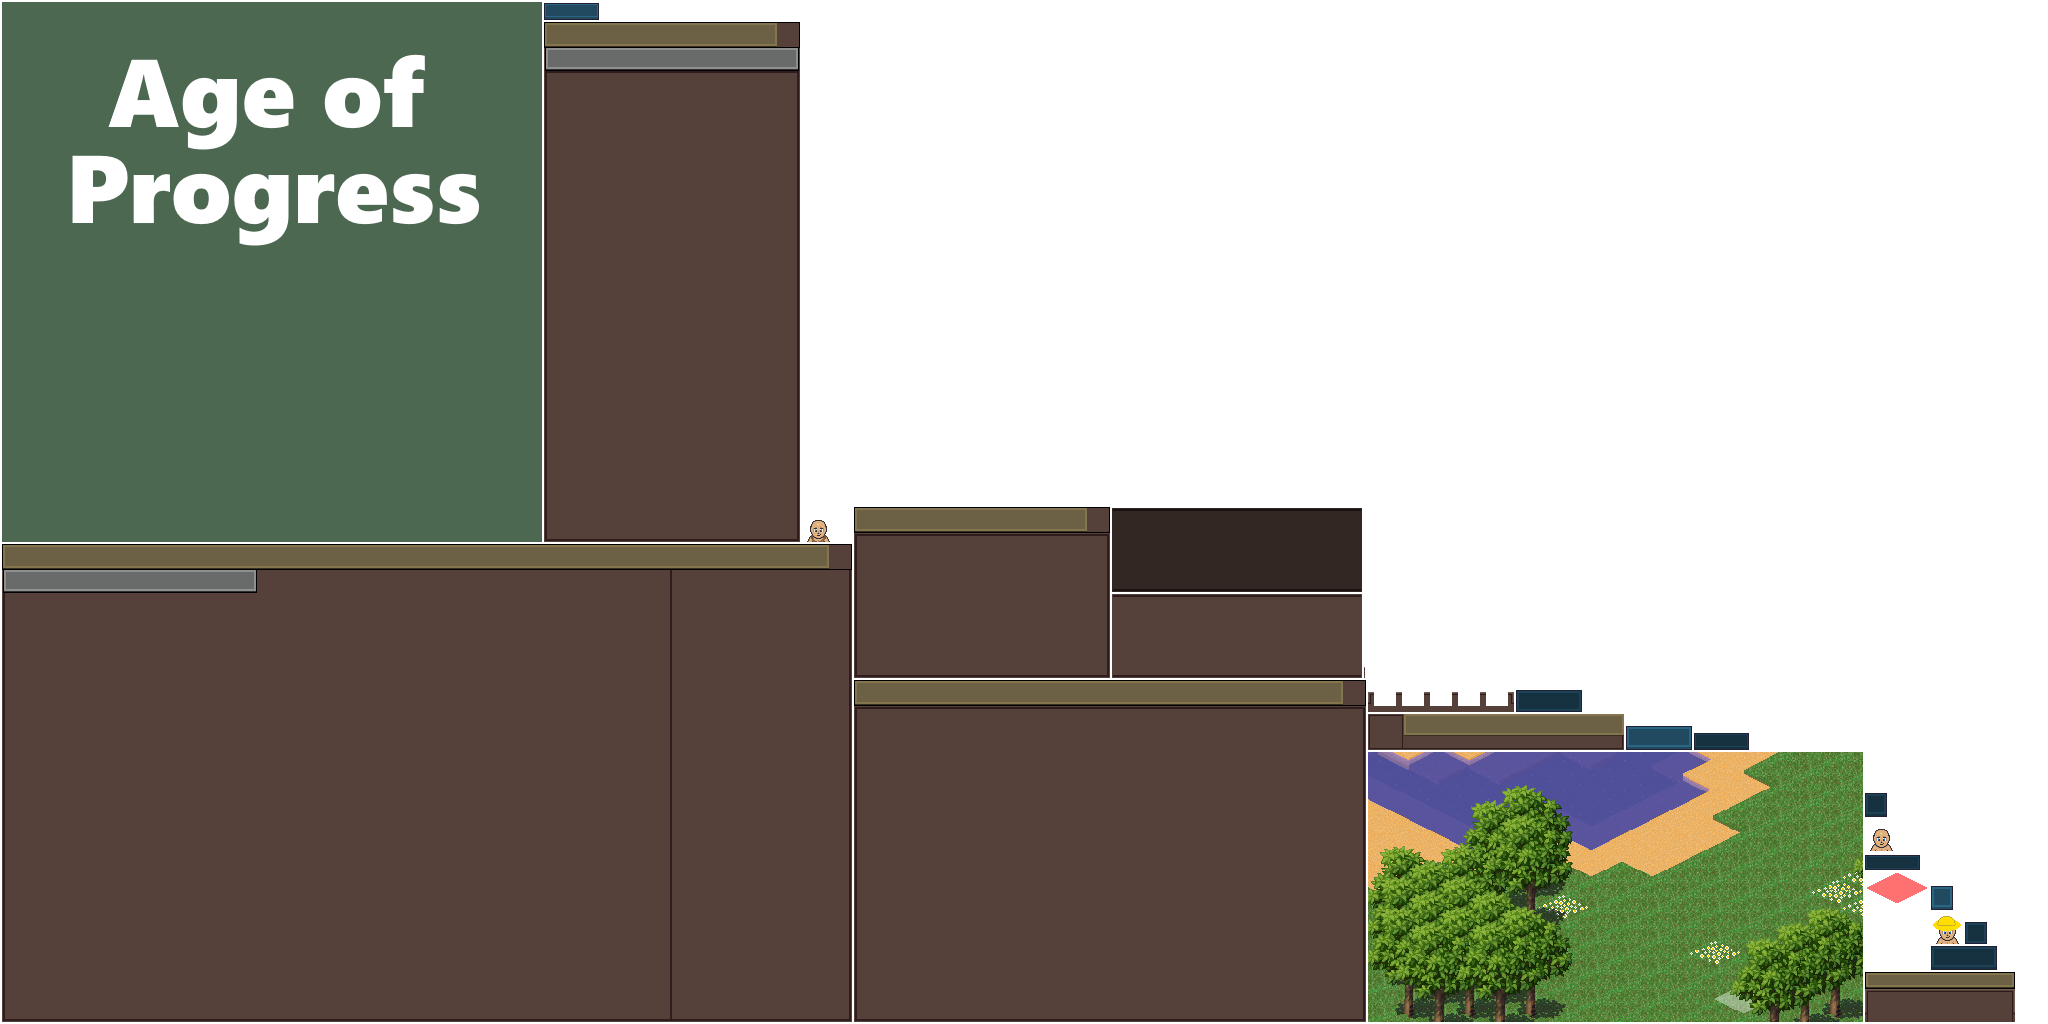
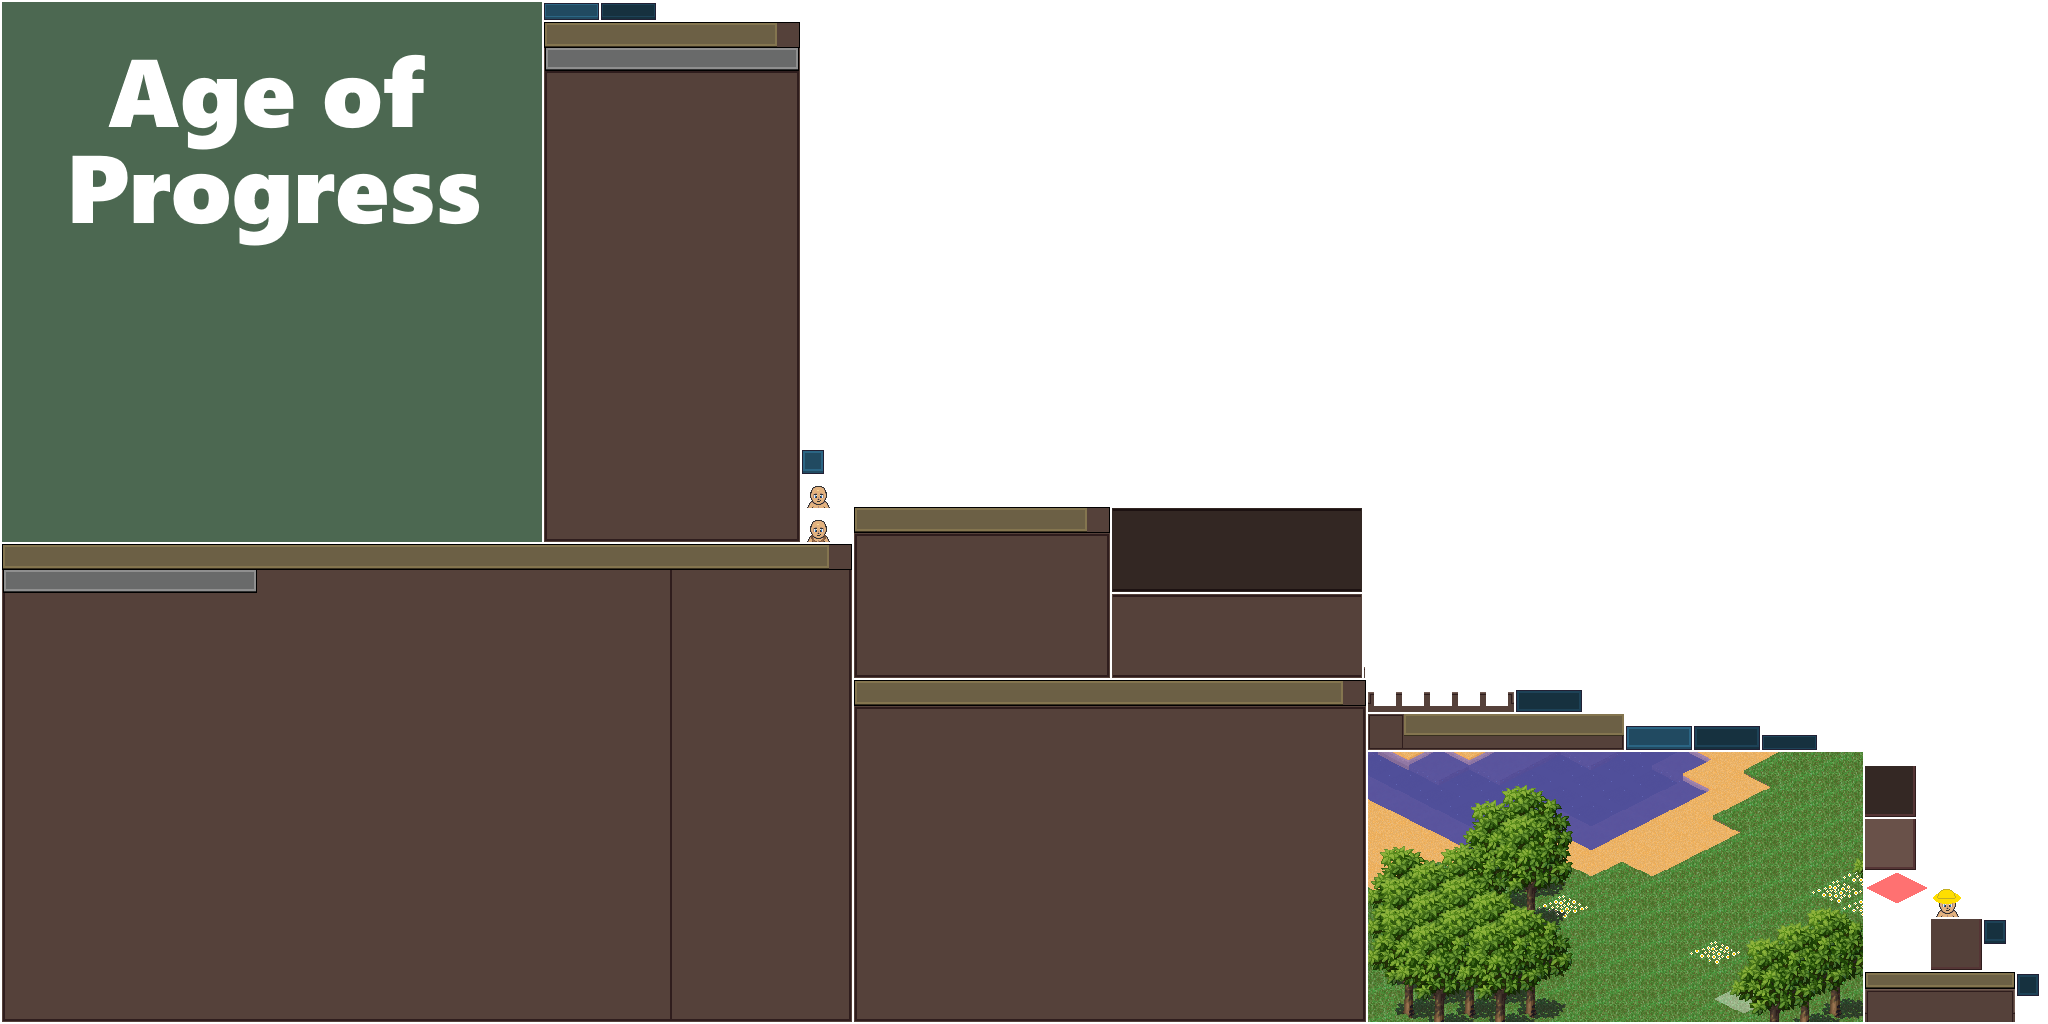
UI update v2
changed tile selector to something less phone UI like

diff --git a/Age Of Progress/core/src/dev/codewizz/gfx/gui/menus/PathingMenu.java b/Age Of Progress/core/src/dev/codewizz/gfx/gui/menus/PathingMenu.java
@@ -1,9 +1,11 @@
 package dev.codewizz.gfx.gui.menus;
 
 import com.badlogic.gdx.Gdx;
+import com.badlogic.gdx.graphics.g2d.Sprite;
+import com.badlogic.gdx.graphics.g2d.SpriteBatch;
 import com.badlogic.gdx.math.Rectangle;
 
-import dev.codewizz.gfx.gui.UIBuyslotTile;
+import dev.codewizz.gfx.gui.UIElement;
 import dev.codewizz.gfx.gui.UIIcon;
 import dev.codewizz.gfx.gui.UIImage;
 import dev.codewizz.gfx.gui.UILayer;
@@ -12,6 +14,8 @@ import dev.codewizz.gfx.gui.UIScrollList;
 import dev.codewizz.gfx.gui.UITabButton;
 import dev.codewizz.gfx.gui.UIText;
 import dev.codewizz.input.MouseInput;
+import dev.codewizz.utils.Assets;
+import dev.codewizz.world.Tile;
 import dev.codewizz.world.tiles.ClayTile;
 import dev.codewizz.world.tiles.DeepWaterTile;
 import dev.codewizz.world.tiles.DirtPathTile;
@@ -35,6 +39,8 @@ public class PathingMenu extends UIMenu {
 
 	private UIScrollList stonesList;
 	private UIScrollList terrainList;
+	
+	private int rowSize = 5;
 
 	public PathingMenu(String id, int x, int y, int w, int h, UILayer layer) {
 		super(id, x, y, w, h, layer);
@@ -42,6 +48,17 @@ public class PathingMenu extends UIMenu {
 
 	@Override
 	public void setup() {
+		elements.add(0, new UIIcon("close-button", (6 + 160 - 13 - 1) * UILayer.SCALE - 1,
+				Gdx.graphics.getHeight() - (7 + 15) * UILayer.SCALE + 1, 14, 15, "close-icon") {
+			@Override
+			protected void onDeClick() {
+				closeAllTabs();
+				close();
+			}
+		});
+		
+		
+		
 		/*
 		 * 
 		 * this was the problem (h-200) might fuck up later when more buyslots are
@@ -60,16 +77,7 @@ public class PathingMenu extends UIMenu {
 
 		terrainList.slotPort = new Rectangle((8) * UILayer.SCALE + 4, Gdx.graphics.getHeight() - (329 * UILayer.SCALE),
 				160 * UILayer.SCALE, 291 * UILayer.SCALE);
-
-		elements.add(0, new UIIcon("close-button", (6 + 160 - 13 - 1) * UILayer.SCALE - 1,
-				Gdx.graphics.getHeight() - (7 + 15) * UILayer.SCALE + 1, 14, 15, "close-icon") {
-			@Override
-			protected void onDeClick() {
-				closeAllTabs();
-				close();
-			}
-		});
-
+		
 		elements.add(new UITabButton("tab-button-1", 12 * UILayer.SCALE,
 				Gdx.graphics.getHeight() - (34 * UILayer.SCALE), 43, 10, "Terrain") {
 			@Override
@@ -96,43 +104,27 @@ public class PathingMenu extends UIMenu {
 
 		elements.add(new UIText("text", (6 + 6) * UILayer.SCALE, Gdx.graphics.getHeight() - (6 + 5) * UILayer.SCALE + 1, "Pathing Menu", 8));
 
-		terrainList.slots.add(new UIBuyslotTile("slot-1", (8) * UILayer.SCALE + 4,
-				Gdx.graphics.getHeight() - (90 * UILayer.SCALE), 160 - 8, 52, new GrassTile()));
-		terrainList.slots.add(new UIBuyslotTile("slot-2", (8) * UILayer.SCALE + 4,
-				Gdx.graphics.getHeight() - (140 * UILayer.SCALE), 160 - 8, 52, new FlowerTile()));
-		terrainList.slots.add(new UIBuyslotTile("slot-3", (8) * UILayer.SCALE + 4,
-				Gdx.graphics.getHeight() - (190 * UILayer.SCALE), 160 - 8, 52, new DirtTile()));
-		terrainList.slots.add(new UIBuyslotTile("slot-4", (8) * UILayer.SCALE + 4,
-				Gdx.graphics.getHeight() - (240 * UILayer.SCALE), 160 - 8, 52, new SandTile()));
-		terrainList.slots.add(new UIBuyslotTile("slot-5", (8) * UILayer.SCALE + 4,
-				Gdx.graphics.getHeight() - (290 * UILayer.SCALE), 160 - 8, 52, new ClayTile()));
-		terrainList.slots.add(new UIBuyslotTile("slot-6", (8) * UILayer.SCALE + 4,
-				Gdx.graphics.getHeight() - (340 * UILayer.SCALE), 160 - 8, 52, new WaterTile()));
-		terrainList.slots.add(new UIBuyslotTile("slot-7", (8) * UILayer.SCALE + 4,
-				Gdx.graphics.getHeight() - (390 * UILayer.SCALE), 160 - 8, 52, new EmptyTile()));
-		terrainList.slots.add(new UIBuyslotTile("slot-8", (8) * UILayer.SCALE + 4,
-				Gdx.graphics.getHeight() - (440 * UILayer.SCALE), 160 - 8, 52, new FarmTile()));
-		terrainList.slots.add(new UIBuyslotTile("slot-9", (8) * UILayer.SCALE + 4,
-				Gdx.graphics.getHeight() - (490 * UILayer.SCALE), 160 - 8, 52, new DeepWaterTile()));
-
-		stonesList.slots.add(new UIBuyslotTile("slot-1", (8) * UILayer.SCALE + 4,
-				Gdx.graphics.getHeight() - (90 * UILayer.SCALE), 160 - 8, 52, new DirtPathTile()));
-		stonesList.slots.add(new UIBuyslotTile("slot-2", (8) * UILayer.SCALE + 4,
-				Gdx.graphics.getHeight() - (140 * UILayer.SCALE), 160 - 8, 52, new TiledTile()));
-		stonesList.slots.add(new UIBuyslotTile("slot-3", (8) * UILayer.SCALE + 4,
-				Gdx.graphics.getHeight() - (190 * UILayer.SCALE), 160 - 8, 52, new TiledTile2()));
-		stonesList.slots.add(new UIBuyslotTile("slot-4", (8) * UILayer.SCALE + 4,
-				Gdx.graphics.getHeight() - (240 * UILayer.SCALE), 160 - 8, 52, new TiledTile3()));
-		stonesList.slots.add(new UIBuyslotTile("slot-5", (8) * UILayer.SCALE + 4,
-				Gdx.graphics.getHeight() - (290 * UILayer.SCALE), 160 - 8, 52, new TiledTile4()));
-		stonesList.slots.add(new UIBuyslotTile("slot-6", (8) * UILayer.SCALE + 4,
-				Gdx.graphics.getHeight() - (340 * UILayer.SCALE), 160 - 8, 52, new TiledTile5()));
-		stonesList.slots.add(new UIBuyslotTile("slot-7", (8) * UILayer.SCALE + 4,
-				Gdx.graphics.getHeight() - (390 * UILayer.SCALE), 160 - 8, 52, new TiledTile6()));
-		stonesList.slots.add(new UIBuyslotTile("slot-8", (8) * UILayer.SCALE + 4,
-				Gdx.graphics.getHeight() - (440 * UILayer.SCALE), 160 - 8, 52, new TiledTile7()));
-		stonesList.slots.add(new UIBuyslotTile("slot-9", (8) * UILayer.SCALE + 4,
-				Gdx.graphics.getHeight() - (490 * UILayer.SCALE), 160 - 8, 52, new TiledTile8()));
+		terrainList.slots.add(new Slot(new GrassTile()));
+		terrainList.slots.add(new Slot(new FlowerTile()));
+		terrainList.slots.add(new Slot(new DirtTile()));
+		terrainList.slots.add(new Slot(new SandTile()));
+		terrainList.slots.add(new Slot(new ClayTile()));
+		terrainList.slots.add(new Slot(new WaterTile()));
+		terrainList.slots.add(new Slot(new EmptyTile()));
+		terrainList.slots.add(new Slot(new FarmTile()));
+		terrainList.slots.add(new Slot(new DeepWaterTile()));
+		terrainList.slots.add(new Slot(new FarmTile()));
+		
+		stonesList.slots.add(new Slot(new DirtPathTile()));
+		stonesList.slots.add(new Slot(new TiledTile()));
+		stonesList.slots.add(new Slot(new TiledTile2()));
+		stonesList.slots.add(new Slot(new TiledTile3()));
+		stonesList.slots.add(new Slot(new TiledTile4()));
+		stonesList.slots.add(new Slot(new TiledTile5()));
+		stonesList.slots.add(new Slot(new TiledTile6()));
+		stonesList.slots.add(new Slot(new TiledTile7()));
+		stonesList.slots.add(new Slot(new TiledTile8()));
+		
 
 		terrainList.maxScroll = (terrainList.slots.size()) * 52;
 
@@ -143,13 +135,12 @@ public class PathingMenu extends UIMenu {
 		elements.add(new UIImage("background", 6 * UILayer.SCALE, Gdx.graphics.getHeight() - (331 * UILayer.SCALE), 160,
 				325, "path-menu"));
 	}
-
+	
 	private void closeAllTabs() {
 		layer.elements.removeAll(terrainList.slots);
 		layer.elements.removeAll(stonesList.slots);
 		layer.elements.remove(terrainList);
 		layer.elements.remove(stonesList);
-		
 	}
 
 	@Override
@@ -157,9 +148,29 @@ public class PathingMenu extends UIMenu {
 		return new java.awt.Rectangle(6 * UILayer.SCALE, Gdx.graphics.getHeight() - (331 * UILayer.SCALE),
 				160 * UILayer.SCALE, 325 * UILayer.SCALE);
 	}
-
+	
 	@Override
 	public void onOpen() {
+		
+		for(int i = 0; i < terrainList.slots.size(); i++) {
+			UIElement e = terrainList.slots.get(i);
+
+			int indexX = i % rowSize;
+			int indexY = (int) (i / rowSize);
+			
+			e.setX(indexX * 94 + x + 8 * UILayer.SCALE);
+			e.setY(indexY * - 94 + y + 291 * UILayer.SCALE);
+		}
+		
+		for(int i = 0; i < stonesList.slots.size(); i++) {
+			UIElement e = stonesList.slots.get(i);
+
+			int indexX = i % rowSize;
+			int indexY = (int) (i / rowSize);
+			
+			e.setX(indexX * 94 + x + 8 * UILayer.SCALE);
+			e.setY(indexY * - 94 + y + 291 * UILayer.SCALE);
+		}
 	}
 
 	@Override
@@ -167,5 +178,48 @@ public class PathingMenu extends UIMenu {
 		MouseInput.object = true;
 		MouseInput.currentlyDrawingObject = null;
 		closeAllTabs();
+	}
+}
+class Slot extends UIElement {
+	
+	private static Sprite background = Assets.getSprite("slot-background");
+	private static Sprite backgroundPressed = Assets.getSprite("slot-background-pressed");
+	private static Sprite backgroundHovering = Assets.getSprite("slot-background-hovering");
+	
+	public Tile tile;
+	
+	private int width, height;
+	
+	public Slot(Tile tile) {
+		super("slot-" + tile.getId(), 0, 0, 94, 94);
+		
+		this.tile = tile;
+		
+		width = w - 6;
+		height = (int)(((float)(width) / 64f) * 48f);;
+	}
+	
+	@Override
+	protected void onDeClick() {
+		MouseInput.object = false;
+		MouseInput.currentlyDrawingTileId = tile.getId();
+	}
+
+	@Override
+	public void render(SpriteBatch b) {
+		if(pressed) {	
+			b.draw(backgroundPressed, x, y, w, h);	
+		} else if(hovering){
+			b.draw(backgroundHovering, x, y, w, h);	
+		} else {
+			b.draw(background, x, y, w, h);	
+		}
+		
+		b.draw(tile.getCurrentSprite(), x, y + 6, width, height);
+	}
+	
+	@Override
+	public java.awt.Rectangle getBounds() {
+		return new java.awt.Rectangle(x, UILayer.HEIGHT - y - h, w, h);
 	}
 }

diff --git a/Age Of Progress/core/src/dev/codewizz/gfx/gui/UILayer.java b/Age Of Progress/core/src/dev/codewizz/gfx/gui/UILayer.java
@@ -24,6 +24,8 @@ public abstract class UILayer implements InputProcessor {
 	private Texture fadeTex;
 	
 	private Rectangle scissors;
+	
+	private int mx, my;
 
 	public UILayer() {
 		WIDTH = Gdx.graphics.getWidth();
@@ -114,6 +116,8 @@ public abstract class UILayer implements InputProcessor {
 
 	@Override
 	public boolean mouseMoved(int screenX, int screenY) {
+		mx = screenX;
+		my = screenY;
 		return false;
 	}
 
@@ -155,11 +159,14 @@ public abstract class UILayer implements InputProcessor {
 		
 		for (int i = elements.size() - 1; i >= 0; i--) {
 			UIElement e = elements.get(i);
-		
+			e.hovering = false;
 			if(e.isBackground() && e.isEnabled()) {
 				e.render(b);
 			}
-		
+			
+			if(e.getBounds().contains(mx, my)) {
+				e.hovering = true;
+			}
 		}
 		
 		for (int i = elements.size() - 1; i >= 0; i--) {

diff --git a/Age Of Progress/core/src/dev/codewizz/gfx/gui/menus/SettlementMenu.java b/Age Of Progress/core/src/dev/codewizz/gfx/gui/menus/SettlementMenu.java
@@ -1,5 +1,7 @@
 package dev.codewizz.gfx.gui.menus;
 
+import java.awt.Rectangle;
+
 import com.badlogic.gdx.Gdx;
 
 import dev.codewizz.gfx.gui.UIElement;
@@ -24,7 +26,7 @@ public class SettlementMenu extends UIMenu {
 		super(id, x, y, w, h, layer);
 
 	}
-
+	
 	@Override
 	public void setup() {
 		
@@ -47,8 +49,8 @@ public class SettlementMenu extends UIMenu {
 	}
 
 	@Override
-	public java.awt.Rectangle getBounds() {
-		return new java.awt.Rectangle(6 * UILayer.SCALE, Gdx.graphics.getHeight() - (331 * UILayer.SCALE),
+	public Rectangle getBounds() {
+		return new Rectangle(6 * UILayer.SCALE, Gdx.graphics.getHeight() - (331 * UILayer.SCALE),
 				160 * UILayer.SCALE, 325 * UILayer.SCALE);
 	}
 

diff --git a/Age Of Progress/core/src/dev/codewizz/world/objects/FenceGate.java b/Age Of Progress/core/src/dev/codewizz/world/objects/FenceGate.java
@@ -84,7 +84,7 @@ public class FenceGate extends GameObject implements Serializable, IBuy {
 
 	@Override
 	public String getMenuDescription() {
-		return "The first workshop for your craftsman";
+		return "Will magically sort Hermits and Animals";
 	}
 
 	@Override

diff --git a/Age Of Progress/core/src/dev/codewizz/world/objects/FencePost.java b/Age Of Progress/core/src/dev/codewizz/world/objects/FencePost.java
@@ -70,7 +70,7 @@ public class FencePost extends GameObject implements Serializable, IBuy {
 
 	@Override
 	public String getMenuDescription() {
-		return "The first workshop for your craftsman";
+		return "A sturdy wooden post";
 	}
 
 	@Override

diff --git a/Age Of Progress/core/src/dev/codewizz/world/objects/Fence.java b/Age Of Progress/core/src/dev/codewizz/world/objects/Fence.java
@@ -81,7 +81,7 @@ public class Fence extends GameObject implements Serializable, IBuy {
 
 	@Override
 	public String getMenuDescription() {
-		return "The first workshop for your craftsman";
+		return "A very primitive wall";
 	}
 
 	@Override
